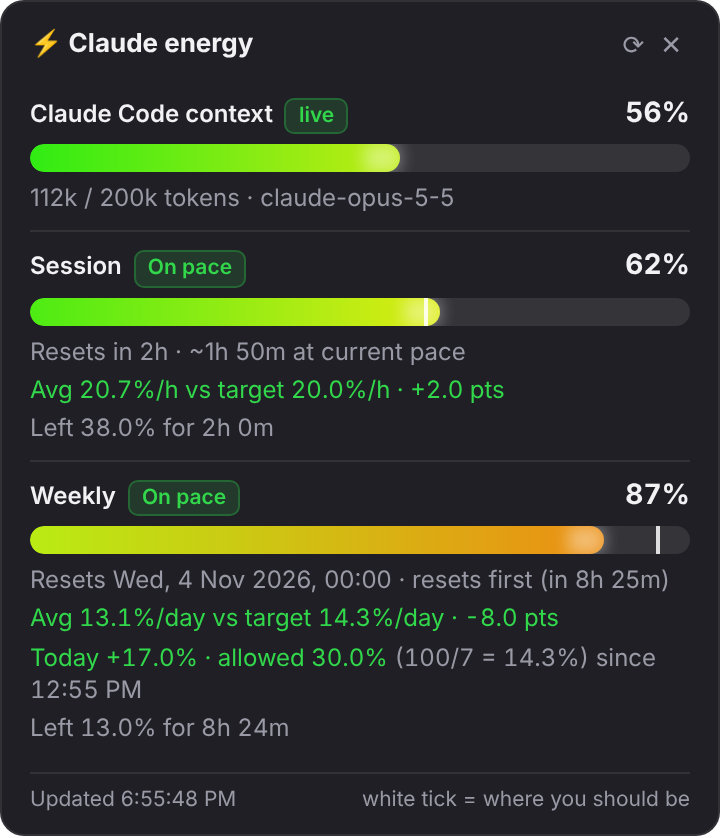
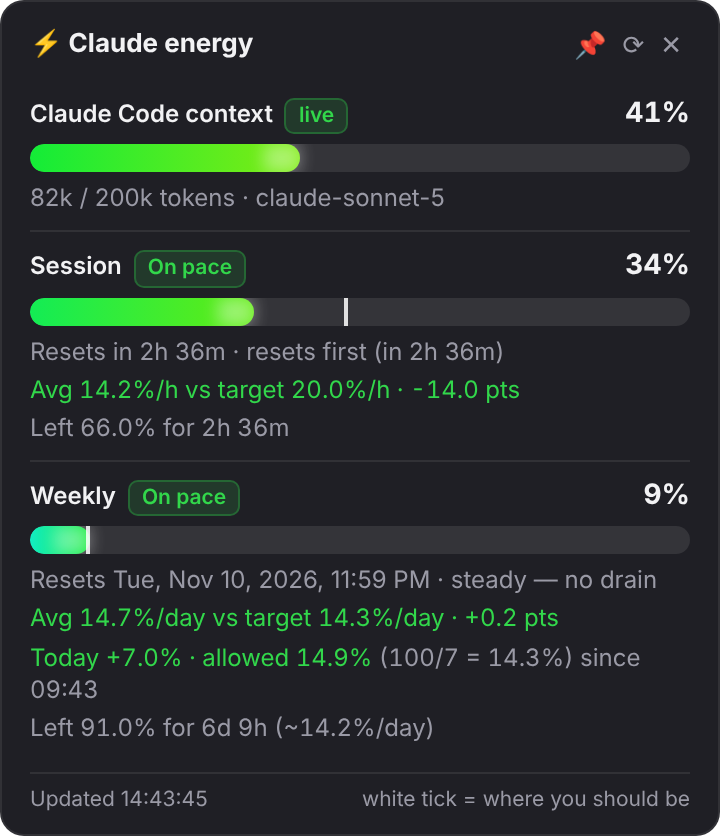
README: document 1.2.1 resource savings and 1.2.2 reset display; new gauge screenshot
Claude-Session: https://claude.ai/code/session_016isfpxwiQcRnp95PhQzXzM

diff --git a/README.md b/README.md
@@ -10,7 +10,7 @@ macOS     S: 42%  W: 18%  F: 7%   (text in the menu bar)
 
 <img src="docs/energy-gauge.png" width="360" alt="Energy gauge popup">
 
-<sub>Screenshot with sample data.</sub>
+<sub>Energy gauge, pinned (v1.2). Sample data.</sub>
 
 ## Features
 
@@ -26,16 +26,40 @@ green → amber → red and pulse near the limit. The **white tick** is where yo
 *should* be if usage were spread evenly over the window: bar past the tick =
 ahead of pace. **Right-click** opens the menu.
 
-**📌 Pin it** (new in 1.2): click the pin in the gauge title, or menu →
+**📌 Pin it** (new in 1.2.0): click the pin in the gauge title, or menu →
 *Keep gauge on screen*. The gauge then stays always on top, doesn't close when
 you click elsewhere, can be dragged by its title anywhere, and comes back at the
 same spot when the app starts. Click 📌 again or ✕ to unpin.
+
+### 🪶 Light on resources (new in 1.2.1)
+Usage is read straight from Claude's API through Electron's own network stack,
+using the saved sign-in. Earlier versions kept a hidden claude.ai page open
+just to stay signed in; that page is gone. A browser window opens only for
+sign-in, and as an automatic fallback for 30 min if claude.ai's bot check ever
+blocks the direct request. The gauge window is freed when closed (kept only
+while pinned).
+
+Measured on Windows 11, 16 cores, app idle in the tray:
+
+| | 1.1.1 | 1.2.1 |
+|---|---|---|
+| Processes | 6 | 3 |
+| RAM (Task Manager) | 995 MB | **217 MB** |
+| RAM used by the app alone | 498 MB | 251 MB |
+| CPU | 0.55% of one core | 0.16% of one core |
+
+Opening the gauge adds about 90 MB, freed again when it closes.
+
+### 🕛 Reset time (new in 1.2.2)
+A reset at midnight is shown as **23:59 of the last day you can still use**,
+with the day name, e.g. `resets Tue 10 Nov 23:59`, instead of
+`Wed 00:00` or "tonight".
 
 ### 📅 Daily pace (new in 1.1)
 A weekly limit allows **100% / 7 days = 14.3% per day**. Hover the Weekly badge:
 
 ```
-Weekly — 90%, resets ons 4 nov. 00:00
+Weekly — 90%, resets tis 3 nov. 23:59
 🟢 Avg 13.3%/d · target 14.3
 🟢 Today +1.0% (max 11.0)
 Left 10.0% · 5h 16m
